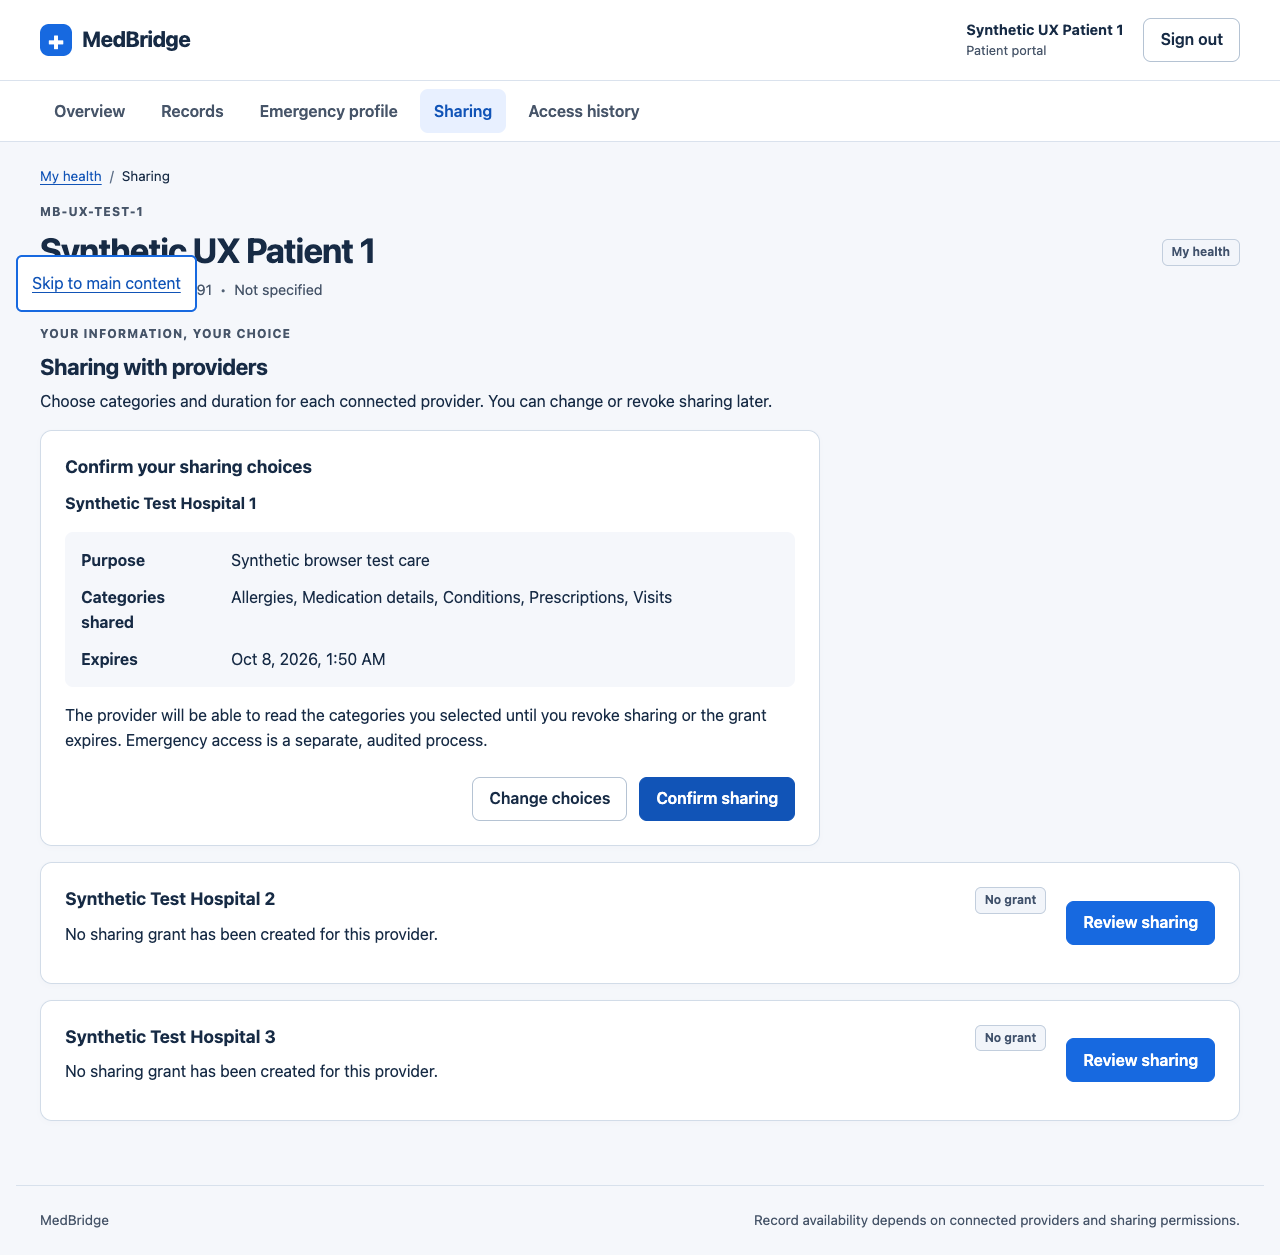
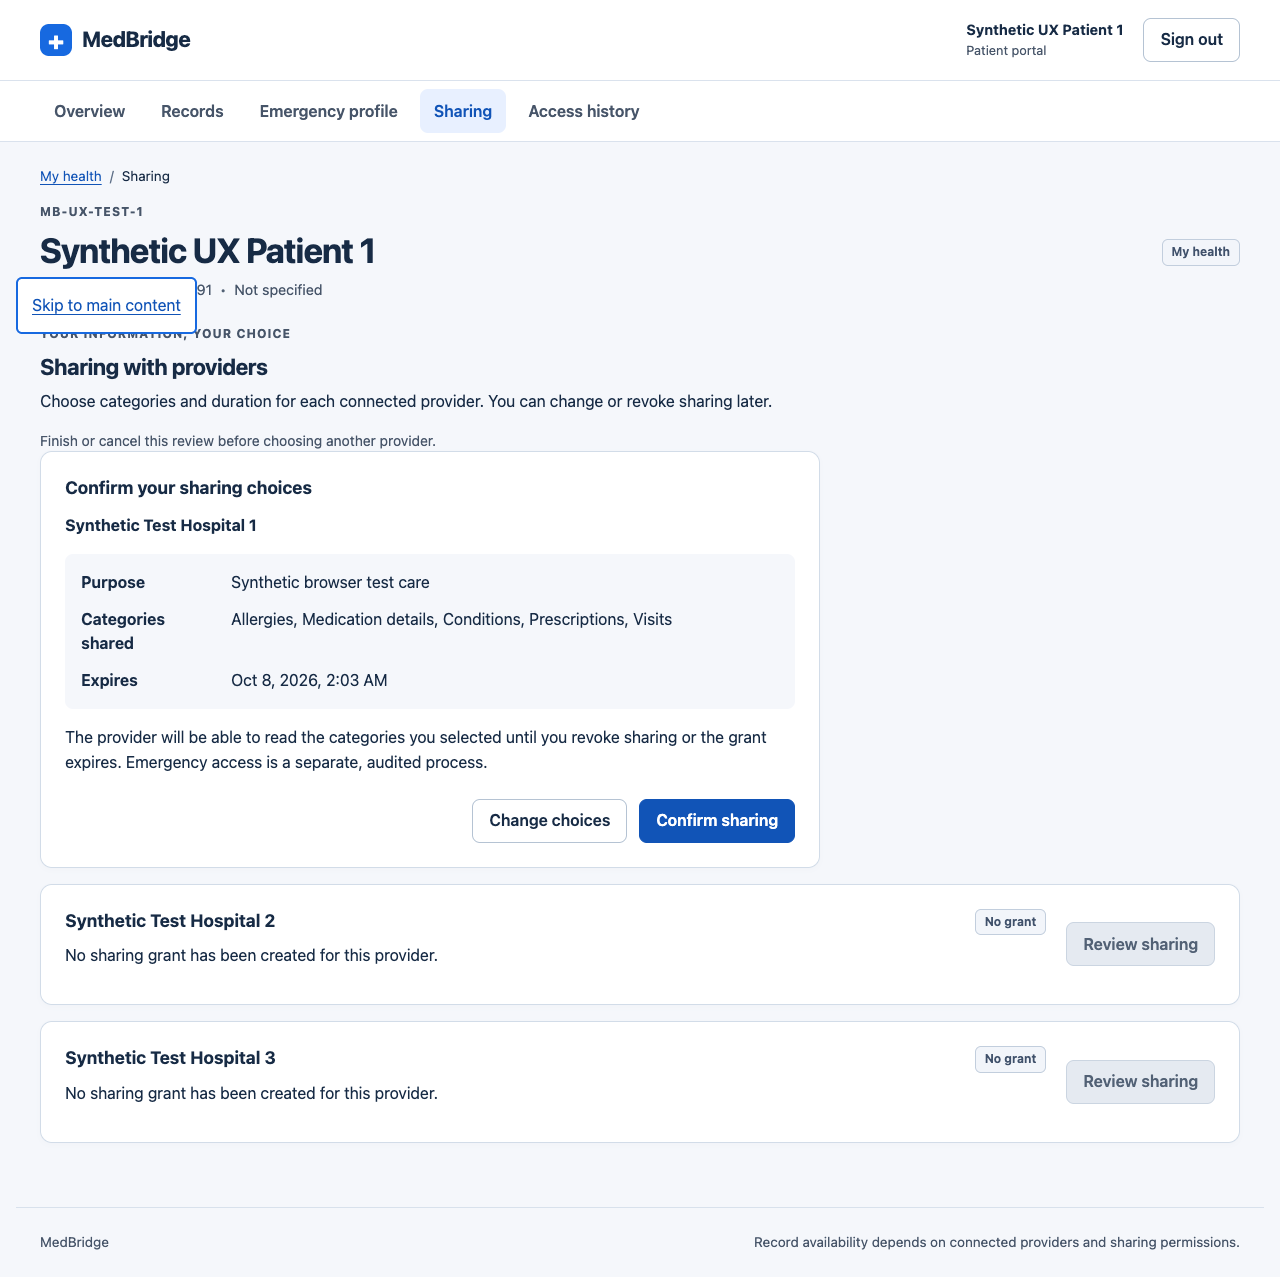
fix: keep the active sharing review focused

diff --git a/frontend/src/components/Sharing.jsx b/frontend/src/components/Sharing.jsx
@@ -237,6 +237,11 @@ export default function Sharing({ token, providers }) {
         </div>
       </div>
       <Notice>{message}</Notice>
+      {editing !== null && (
+        <p className="help">
+          Finish or cancel this review before choosing another provider.
+        </p>
+      )}
       <State
         loading={remote.loading}
         error={remote.error}
@@ -309,7 +314,7 @@ export default function Sharing({ token, providers }) {
                     </div>
                     <div className="actions">
                       <button
-                        className="primary"
+                        disabled={editing !== null}
                         onClick={() => {
                           setEditing(provider.hospital_id);
                           setMessage("");
@@ -321,6 +326,7 @@ export default function Sharing({ token, providers }) {
                       </button>
                       {status === "Active" && (
                         <button
+                          disabled={editing !== null}
                           onClick={() => {
                             setRevoking(consent);
                             setError("");

diff --git a/docs/UX-IMPLEMENTATION.md b/docs/UX-IMPLEMENTATION.md
@@ -7,7 +7,7 @@ Implemented on the local `codex/medbridge-ux-improvements` branch. No remote pus
 1. **Session and navigation.** Restore the authenticated account before selecting a portal. Preserve role and page on reload; support browser Back and direct URLs. Keep account controls visible during loading and errors. Clear expired sessions with an explicit sign-in message. Add a shared sign-in screen for both roles.
 2. **Doctor workflow.** Search accessible patients by name or MedBridge ID, optionally with date of birth. Compare identity before opening a record. Keep a selected record while searching for another patient. Put identity, consent state and allergies/current medications/active conditions first. Separate record filtering from critical information; show matched/total counts and a clear action. Add categories and a dated timeline. Disclose demographic/provider administration separately and retain profile editing, photos, account creation and identity verification.
 3. **Patient workflow.** Add Overview, Records, Emergency profile, Sharing and Access history pages. Expose visits and test results alongside clinical categories. Distinguish medication strength from prescribed dose. Explain missing information without implying clinical absence. Keep emergency-editor values after failure; normalize accepted phone formats and update the canonical displayed profile after save.
-4. **Sharing and transparency.** Review provider, purpose, explicit categories and duration before confirmation. Edit existing choices without resetting their scope. Compute expiry accurately; confirm revocation and retain controls after failure. Enforce scopes on unified and FHIR clinical reads. Show normal record views, emergency sessions and patient changes in patient-owned history, with time-zone context, category filters and cursor pagination.
+4. **Sharing and transparency.** Review provider, purpose, explicit categories and duration before confirmation. Edit existing choices without resetting their scope. Keep a single emphasized action in the active review and prevent another provider from replacing unfinished choices. Compute expiry accurately; confirm revocation and retain controls after failure. Enforce scopes on unified and FHIR clinical reads. Show normal record views, emergency sessions and patient changes in patient-owned history, with time-zone context, category filters and cursor pagination.
 5. **Emergency access.** Name the patient in the rationale dialog. Restore active sessions from the backend, retain them after profile-fetch/end failures and make termination available. Keep emergency access separate from normal record browsing. Remove expired clinical content from the screen. Support initial focus, keyboard containment, Escape and focus return.
 6. **Shared design system.** Use consistent controls, spacing, status messages and empty states. Desktop gutters are 24px, mobile gutters 16px, cards 16 to 24px, and primary controls at least 44px high. Improve text contrast, visible focus, labels, error associations, live feedback, reduced-motion behavior and narrow-screen wrapping.
 
@@ -34,7 +34,7 @@ The following screens use the isolated synthetic dataset.
 
 - **78 backend tests passed**, including new tests for partial sharing, FHIR enforcement, expiry/re-grant, ownership, emergency normalization/provenance, clinician-entered provenance, history pagination/isolation, and session restoration/termination. Existing dependency deprecation warnings remain.
 - Frontend **lint and production build passed**.
-- Automated axe scans on sign-in, populated doctor record, patient overview, patient records and access history returned **zero violations and zero incomplete checks** for the tested WCAG tags. These scans do not establish full accessibility compliance.
+- Automated axe scans on sign-in, populated doctor record, patient overview, patient records, sharing review and access history returned **zero violations and zero incomplete checks** for the tested WCAG tags. These scans do not establish full accessibility compliance.
 - Browser checks covered explicit first-grant review, preserved sharing choices, revocation failure/retry, normal and emergency history, patient Back/reload, invalid-session recovery, record filtering and timeline disclosure.
 - Keyboard checks verified emergency-dialog initial focus on the reason, Tab/Shift+Tab wrapping, Escape and return to the initiating control.
 - Simulated network failures retained emergency reasons, granted sessions, end controls and patient emergency-form values. Retry saved and displayed normalized contact values.
